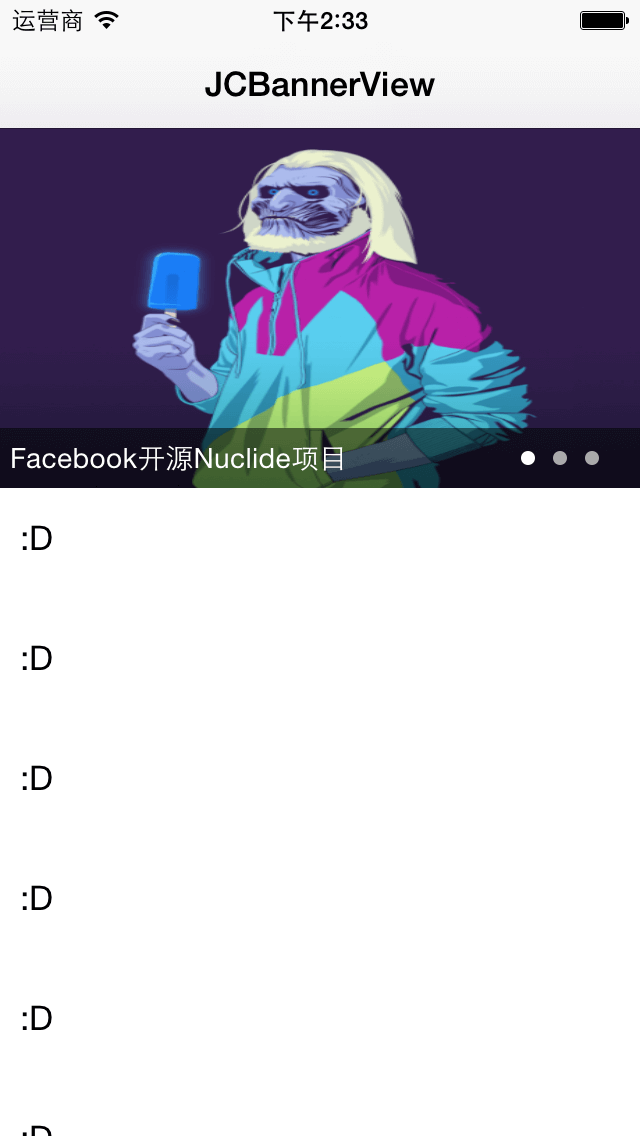
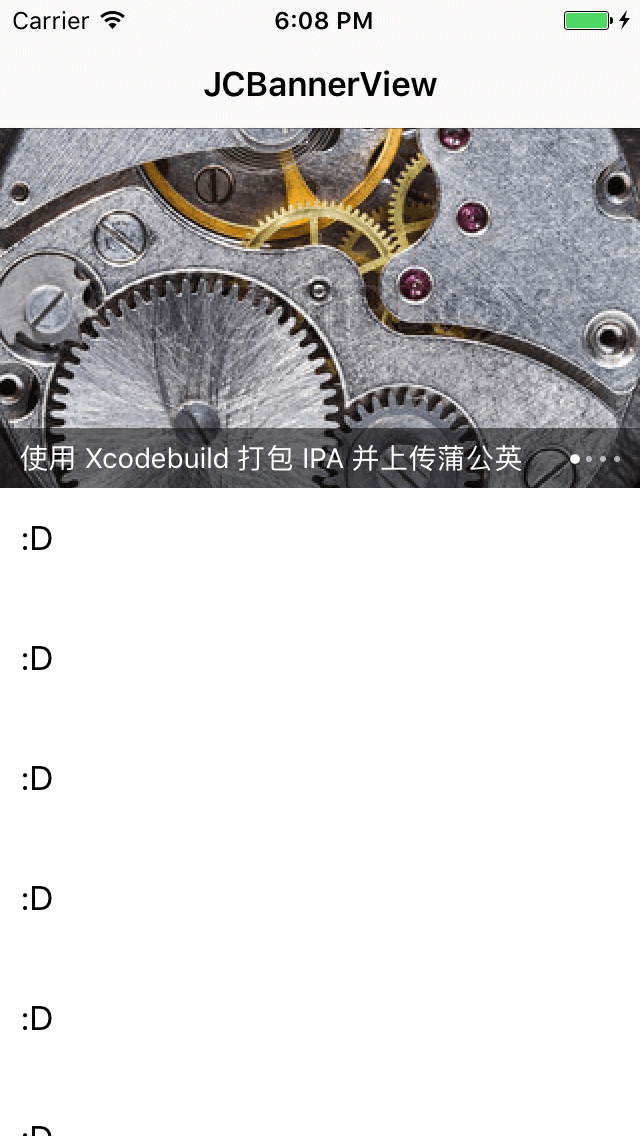
:art:

diff --git a/Example/JCBannerView/JCViewController.m b/Example/JCBannerView/JCViewController.m
@@ -22,11 +22,10 @@
     
 //    @"image" can be [UIImage imageNamed:@"img_placeholder"]
     self.datas = @[
-                   @{@"id": @"1", @"title": @"Facebook开源Nuclide项目", @"image": @"http://7x00ed.com1.z0.glb.clouddn.com/avatar.png", @"url": @"http://lijingcheng.github.io/"},
-                   @{@"id": @"2", @"title": @"Facebook应用Moments使用C++实现跨平台代码共享", @"image": @"http://7x00ed.com1.z0.glb.clouddn.com/cocoapods.png", @"url": @"http://lijingcheng.github.io/"},
-                   @{@"id": @"3", @"title": @"密码管理器LastPass遭到黑客攻击", @"image": @"http://7x00ed.com1.z0.glb.clouddn.com/github-octopress.png", @"url": @"http://lijingcheng.github.io/"},@{@"id": @"1", @"title": @"Facebook开源Nuclide项目", @"image": @"http://7x00ed.com1.z0.glb.clouddn.com/avatar.png", @"url": @"http://lijingcheng.github.io/"},
-                   @{@"id": @"2", @"title": @"Facebook应用Moments使用C++实现跨平台代码共享", @"image": @"http://7x00ed.com1.z0.glb.clouddn.com/cocoapods.png", @"url": @"http://lijingcheng.github.io/"},
-                   @{@"id": @"3", @"title": @"密码管理器LastPass遭到黑客攻击", @"image": @"http://7x00ed.com1.z0.glb.clouddn.com/github-octopress.png", @"url": @"http://lijingcheng.github.io/"}
+                   @{@"id": @"1", @"title": @"使用 Xcodebuild 打包 IPA 并上传蒲公英", @"image": @"http://7x00ed.com1.z0.glb.clouddn.com/xcodebuild.jpg", @"url": @"http://lijingcheng.github.io/"},
+                   @{@"id": @"2", @"title": @"使用 CocoaPods 做依赖管理", @"image": @"http://7x00ed.com1.z0.glb.clouddn.com/cocoapods.png", @"url": @"http://lijingcheng.github.io/"},
+                   @{@"id": @"3", @"title": @"GitHub Pages + Octopress 搭博客", @"image": @"http://7x00ed.com1.z0.glb.clouddn.com/github-octopress.png", @"url": @"http://lijingcheng.github.io/"},
+                   @{@"id": @"2", @"title": @"iOS 应用的组件化设计", @"image": @"http://7x00ed.com1.z0.glb.clouddn.com/component.jpg", @"url": @"http://lijingcheng.github.io/"}
                    ];
 
     [self.collectionView registerClass:[JCBannerView class] forSupplementaryViewOfKind:UICollectionElementKindSectionHeader withReuseIdentifier:NSStringFromClass([JCBannerView class])];

diff --git a/Pod/Classes/JCBannerCell.m b/Pod/Classes/JCBannerCell.m
@@ -8,7 +8,6 @@
 
 #import "JCBannerCell.h"
 #import "Masonry.h"
-#import "JCBannerView.h"
 #import <SDWebImage/UIImageView+WebCache.h>
 
 #define kImageLayerKey @"imageLayer"
@@ -58,9 +57,11 @@
     
     self.imageView.frame = self.bounds;
     
-    [self.titleLabel mas_makeConstraints:^(MASConstraintMaker *make) {
+    UIView *pageControl = [self.superview.superview valueForKey:@"pageControl"];
+    
+    [self.titleLabel mas_remakeConstraints:^(MASConstraintMaker *make) {
         make.left.equalTo(self).with.offset(10);
-        make.right.equalTo(self).with.offset(-60);
+        make.right.equalTo(self).with.offset(-(pageControl.frame.size.width + 10));
         make.bottom.equalTo(self).offset(-5);
         make.height.mas_equalTo(20);
     }];

diff --git a/Pod/Classes/JCPageControl.m b/Pod/Classes/JCPageControl.m
@@ -63,7 +63,7 @@
         previousIndicator.transform = CGAffineTransformIdentity;
         previousIndicator.alpha = 0.6f;
         
-        currentIndicator.transform = CGAffineTransformScale(previousIndicator.transform, 2.0f, 2.0f);
+        currentIndicator.transform = CGAffineTransformScale(previousIndicator.transform, 1.6f, 1.6f);
         currentIndicator.alpha = 1.0f;
     }];
 }
